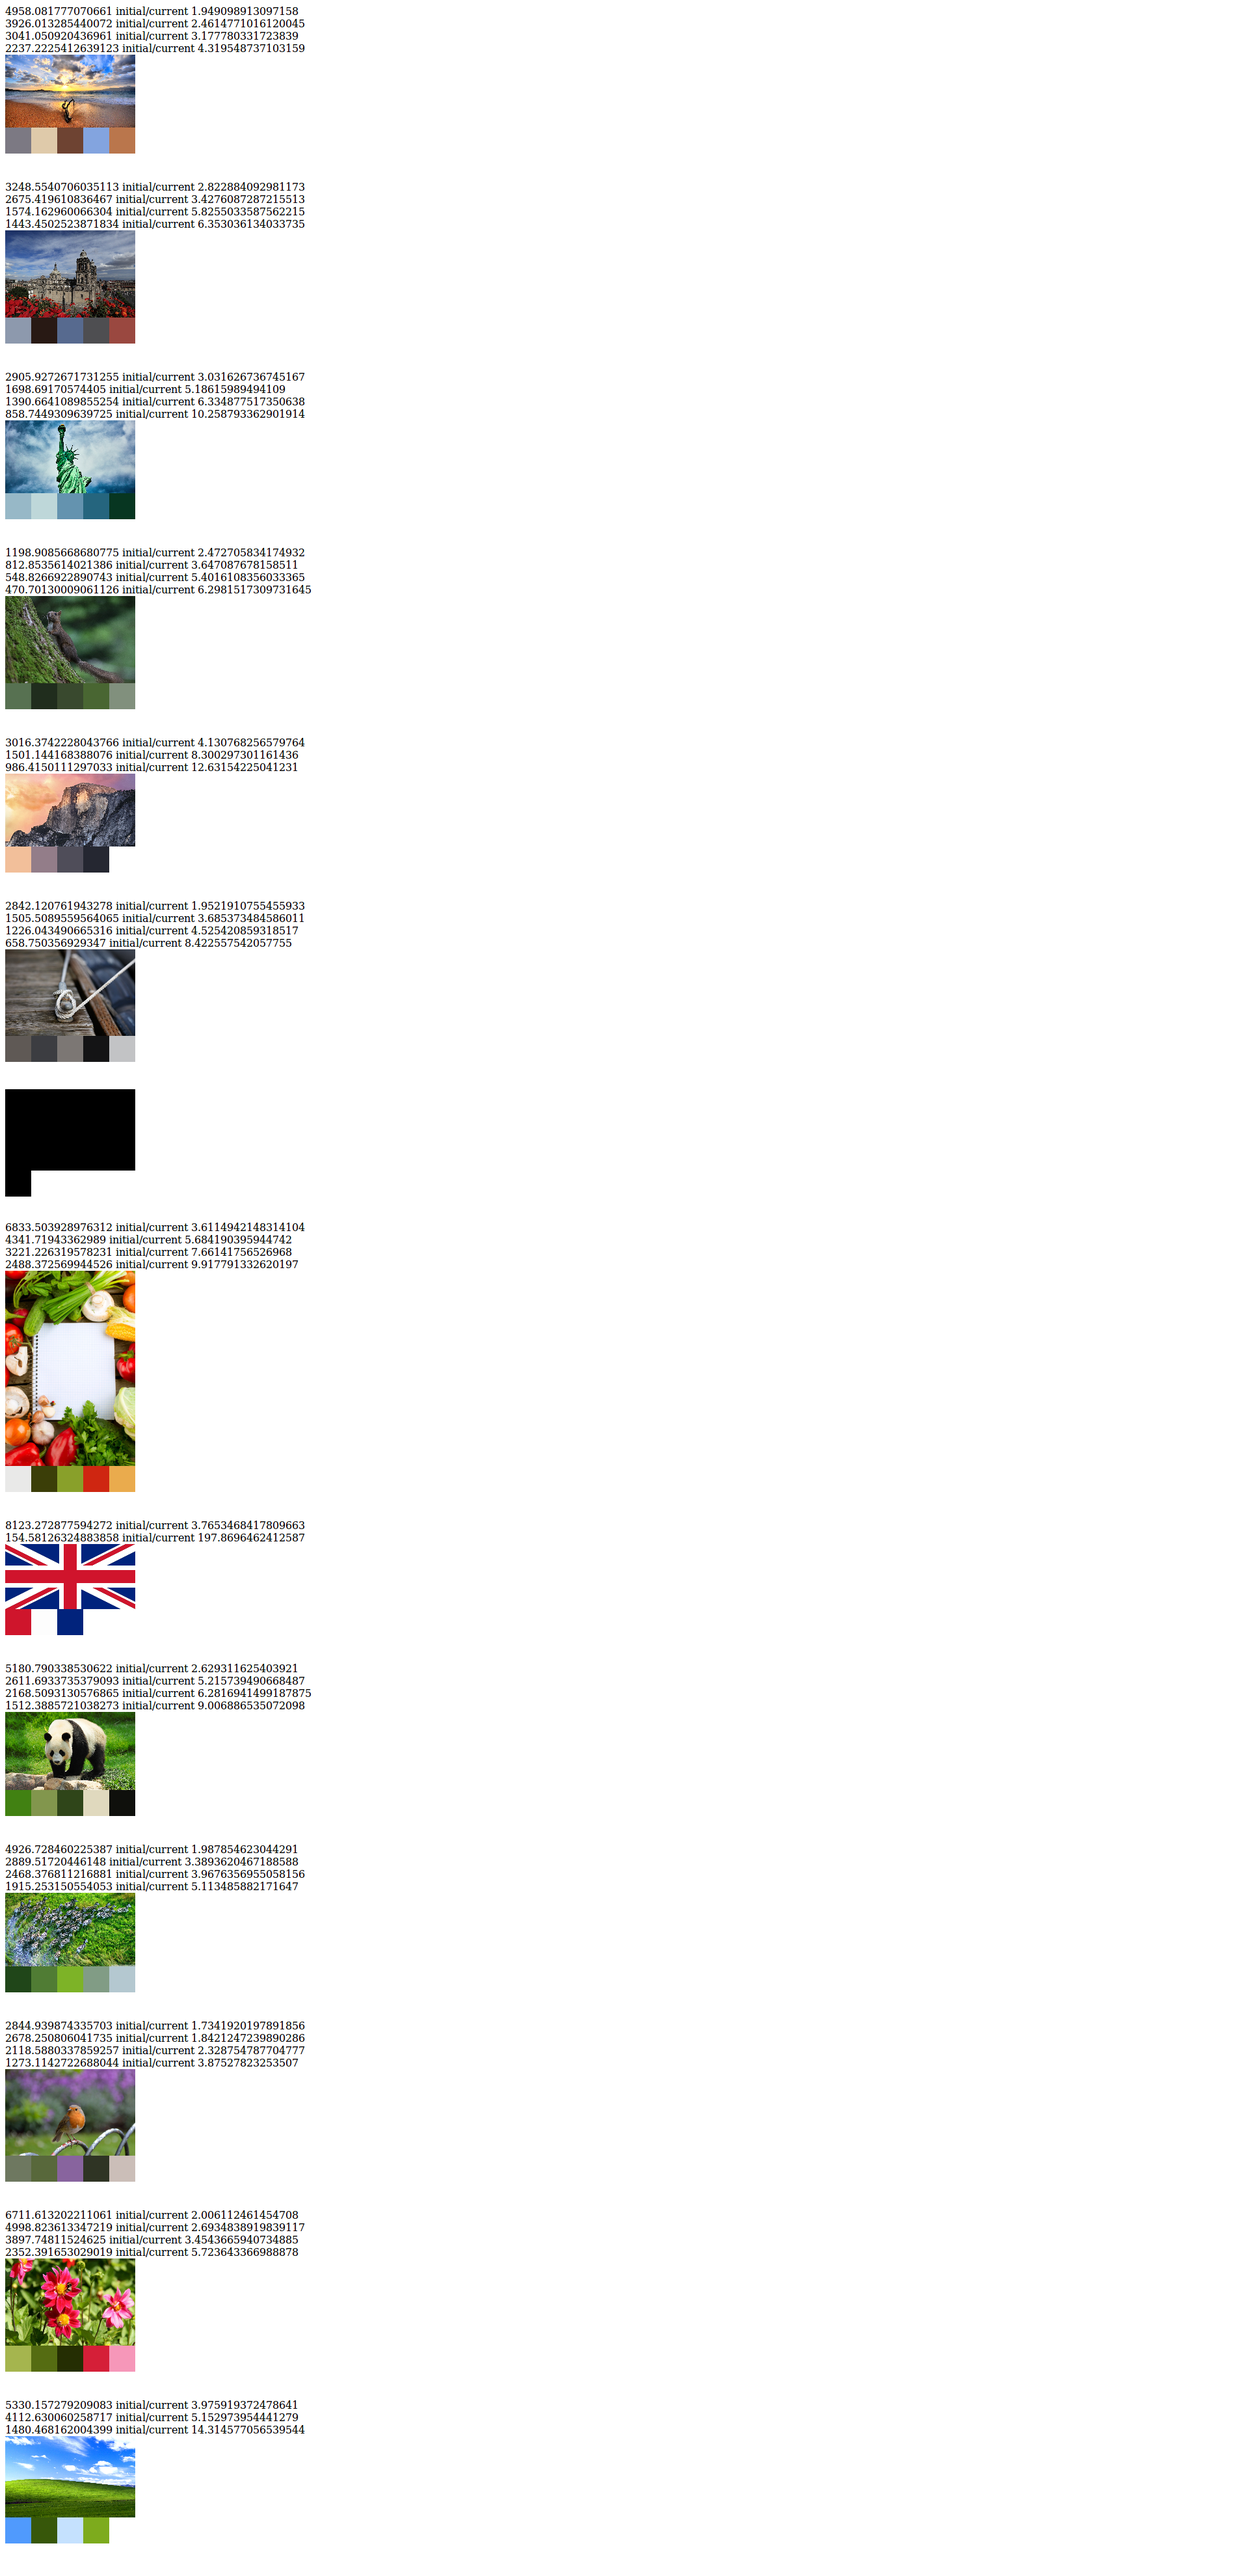
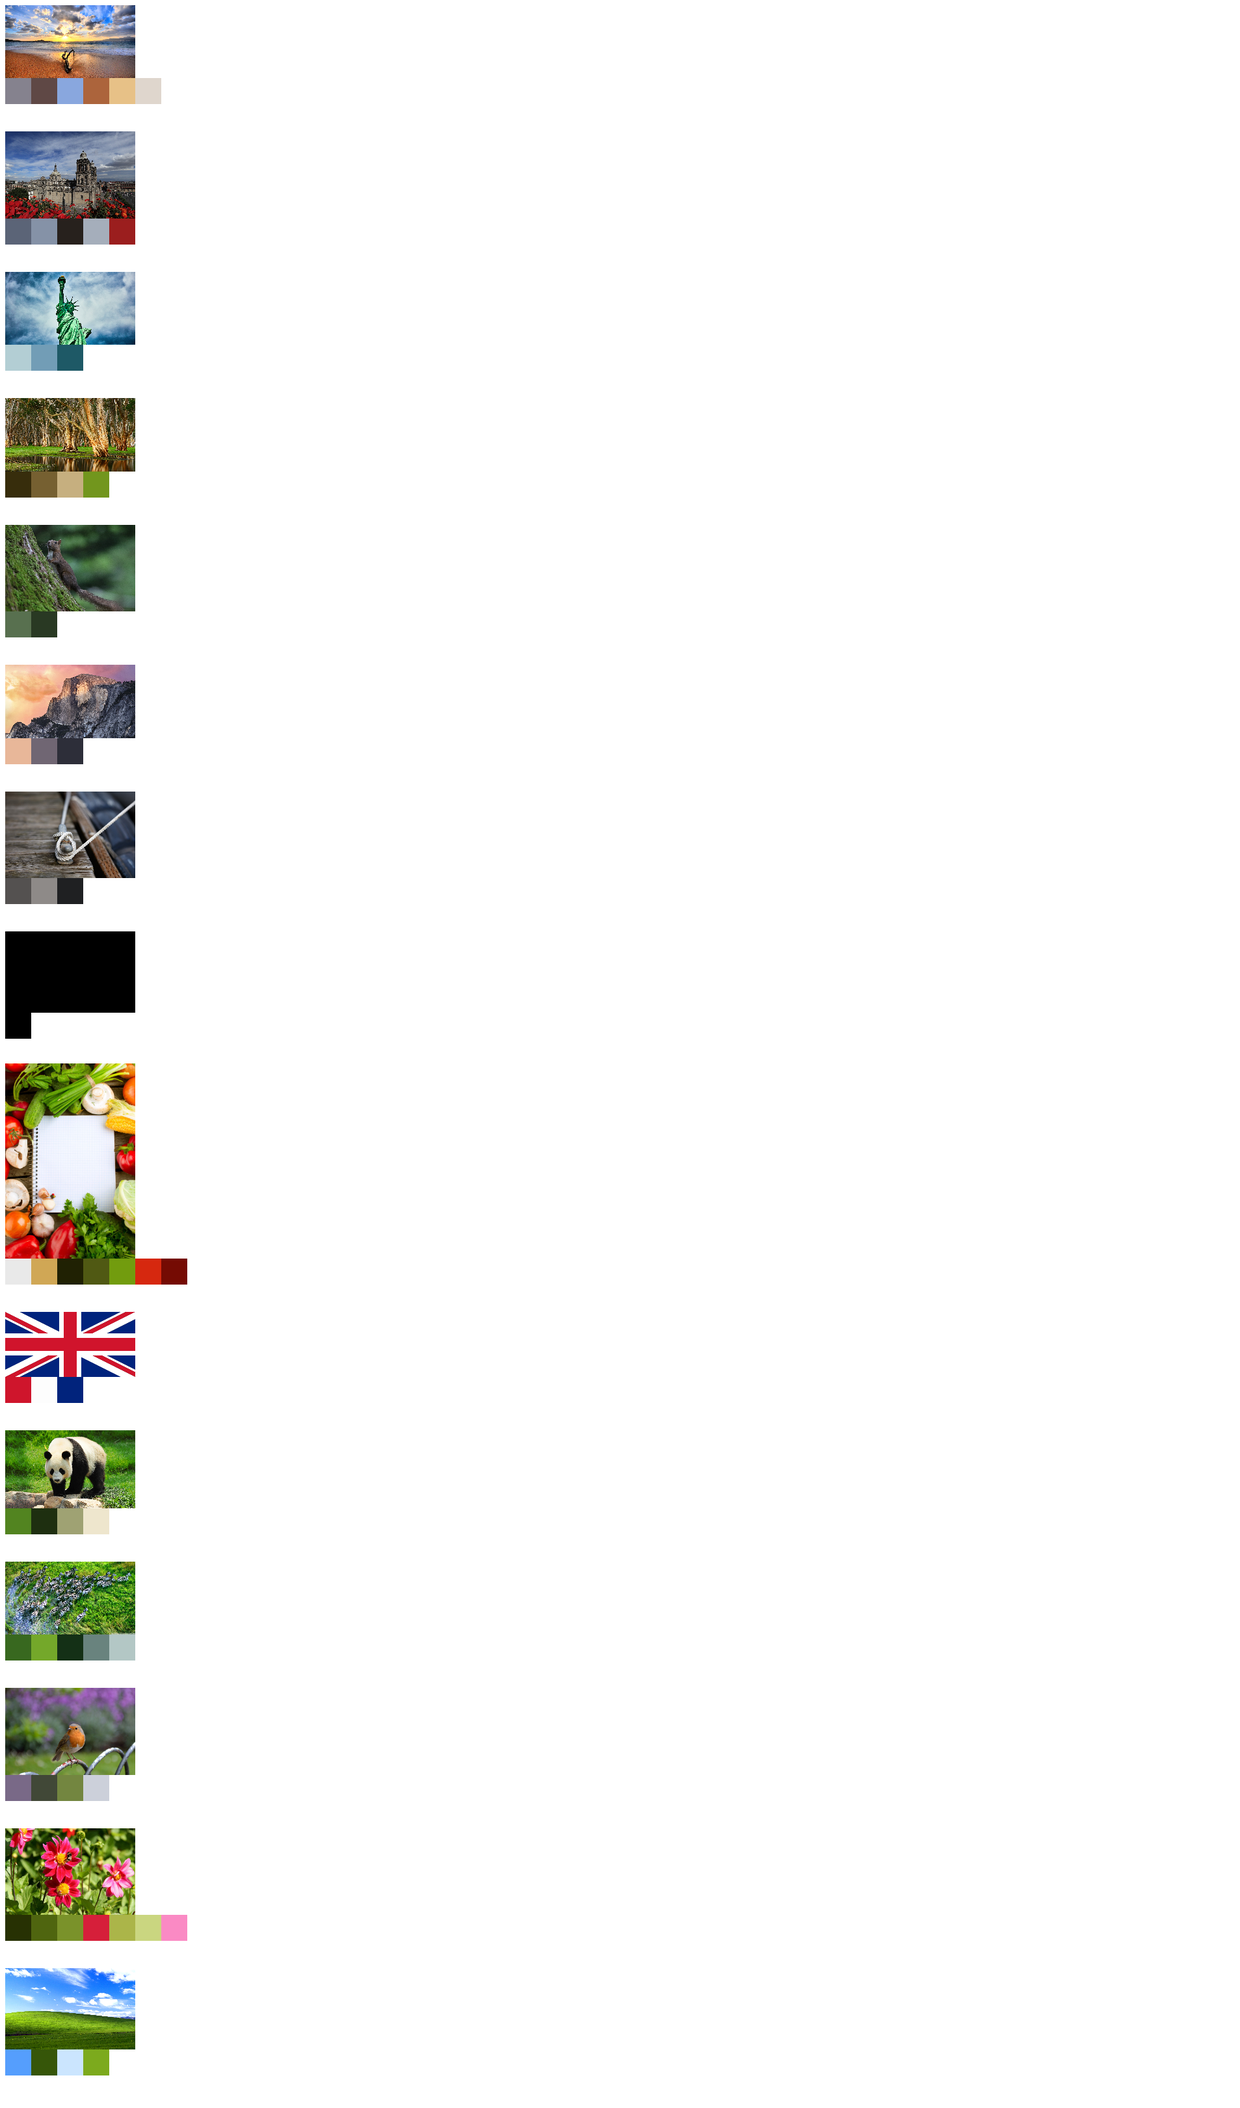
Hiperparameters tuning

Changed region(s): [[0.0, 0.0, 0.2475, 0.9972]]

diff --git a/test.html b/test.html
@@ -1,53 +1,54 @@
 <img src="example_images/01540_driftwood_1366x768.jpg" width="200"><br>
-<div style="background-color:rgb(124,121,131);display:inline-block;width:40px;height:40px;margin-right:-5px;"></div>
-<div style="background-color:rgb(223,202,170);display:inline-block;width:40px;height:40px;margin-right:-5px;"></div>
-<div style="background-color:rgb(110,67,50);display:inline-block;width:40px;height:40px;margin-right:-5px;"></div>
-<div style="background-color:rgb(131,164,223);display:inline-block;width:40px;height:40px;margin-right:-5px;"></div>
-<div style="background-color:rgb(186,118,76);display:inline-block;width:40px;height:40px;margin-right:-5px;"></div>
+<div style="background-color:rgb(133,130,142);display:inline-block;width:40px;height:40px;margin-right:-5px;"></div>
+<div style="background-color:rgb(95,72,69);display:inline-block;width:40px;height:40px;margin-right:-5px;"></div>
+<div style="background-color:rgb(137,167,222);display:inline-block;width:40px;height:40px;margin-right:-5px;"></div>
+<div style="background-color:rgb(172,100,60);display:inline-block;width:40px;height:40px;margin-right:-5px;"></div>
+<div style="background-color:rgb(231,193,135);display:inline-block;width:40px;height:40px;margin-right:-5px;"></div>
+<div style="background-color:rgb(223,214,205);display:inline-block;width:40px;height:40px;margin-right:-5px;"></div>
 <br><br><br>
 <img src="example_images/02.jpg" width="200"><br>
-<div style="background-color:rgb(141,153,173);display:inline-block;width:40px;height:40px;margin-right:-5px;"></div>
-<div style="background-color:rgb(40,25,20);display:inline-block;width:40px;height:40px;margin-right:-5px;"></div>
-<div style="background-color:rgb(87,106,143);display:inline-block;width:40px;height:40px;margin-right:-5px;"></div>
-<div style="background-color:rgb(78,78,81);display:inline-block;width:40px;height:40px;margin-right:-5px;"></div>
-<div style="background-color:rgb(154,72,64);display:inline-block;width:40px;height:40px;margin-right:-5px;"></div>
+<div style="background-color:rgb(91,100,119);display:inline-block;width:40px;height:40px;margin-right:-5px;"></div>
+<div style="background-color:rgb(133,146,167);display:inline-block;width:40px;height:40px;margin-right:-5px;"></div>
+<div style="background-color:rgb(39,33,29);display:inline-block;width:40px;height:40px;margin-right:-5px;"></div>
+<div style="background-color:rgb(165,174,187);display:inline-block;width:40px;height:40px;margin-right:-5px;"></div>
+<div style="background-color:rgb(155,30,30);display:inline-block;width:40px;height:40px;margin-right:-5px;"></div>
 <br><br><br>
 <img src="example_images/04103_misslibertyii_1920x1080.jpg" width="200"><br>
-<div style="background-color:rgb(151,184,199);display:inline-block;width:40px;height:40px;margin-right:-5px;"></div>
-<div style="background-color:rgb(190,215,217);display:inline-block;width:40px;height:40px;margin-right:-5px;"></div>
-<div style="background-color:rgb(100,147,175);display:inline-block;width:40px;height:40px;margin-right:-5px;"></div>
-<div style="background-color:rgb(37,101,126);display:inline-block;width:40px;height:40px;margin-right:-5px;"></div>
-<div style="background-color:rgb(7,54,33);display:inline-block;width:40px;height:40px;margin-right:-5px;"></div>
+<div style="background-color:rgb(179,206,212);display:inline-block;width:40px;height:40px;margin-right:-5px;"></div>
+<div style="background-color:rgb(114,157,182);display:inline-block;width:40px;height:40px;margin-right:-5px;"></div>
+<div style="background-color:rgb(30,89,102);display:inline-block;width:40px;height:40px;margin-right:-5px;"></div>
+<br><br><br>
+<img src="example_images/04141_teagrove_1920x1080.jpg" width="200"><br>
+<div style="background-color:rgb(55,45,12);display:inline-block;width:40px;height:40px;margin-right:-5px;"></div>
+<div style="background-color:rgb(118,96,49);display:inline-block;width:40px;height:40px;margin-right:-5px;"></div>
+<div style="background-color:rgb(198,175,127);display:inline-block;width:40px;height:40px;margin-right:-5px;"></div>
+<div style="background-color:rgb(114,150,29);display:inline-block;width:40px;height:40px;margin-right:-5px;"></div>
 <br><br><br>
 <img src="example_images/07.jpg" width="200"><br>
-<div style="background-color:rgb(87,113,81);display:inline-block;width:40px;height:40px;margin-right:-5px;"></div>
-<div style="background-color:rgb(32,45,29);display:inline-block;width:40px;height:40px;margin-right:-5px;"></div>
-<div style="background-color:rgb(57,73,46);display:inline-block;width:40px;height:40px;margin-right:-5px;"></div>
-<div style="background-color:rgb(73,102,50);display:inline-block;width:40px;height:40px;margin-right:-5px;"></div>
-<div style="background-color:rgb(129,144,125);display:inline-block;width:40px;height:40px;margin-right:-5px;"></div>
+<div style="background-color:rgb(88,112,79);display:inline-block;width:40px;height:40px;margin-right:-5px;"></div>
+<div style="background-color:rgb(41,57,35);display:inline-block;width:40px;height:40px;margin-right:-5px;"></div>
 <br><br><br>
 <img src="example_images/14775211410_42b8d244da_o.jpg" width="200"><br>
-<div style="background-color:rgb(242,191,154);display:inline-block;width:40px;height:40px;margin-right:-5px;"></div>
-<div style="background-color:rgb(147,125,137);display:inline-block;width:40px;height:40px;margin-right:-5px;"></div>
-<div style="background-color:rgb(79,77,89);display:inline-block;width:40px;height:40px;margin-right:-5px;"></div>
-<div style="background-color:rgb(37,39,49);display:inline-block;width:40px;height:40px;margin-right:-5px;"></div>
+<div style="background-color:rgb(232,183,153);display:inline-block;width:40px;height:40px;margin-right:-5px;"></div>
+<div style="background-color:rgb(112,102,115);display:inline-block;width:40px;height:40px;margin-right:-5px;"></div>
+<div style="background-color:rgb(45,46,57);display:inline-block;width:40px;height:40px;margin-right:-5px;"></div>
 <br><br><br>
 <img src="example_images/8448152811.jpg" width="200"><br>
-<div style="background-color:rgb(95,89,85);display:inline-block;width:40px;height:40px;margin-right:-5px;"></div>
-<div style="background-color:rgb(60,61,65);display:inline-block;width:40px;height:40px;margin-right:-5px;"></div>
-<div style="background-color:rgb(124,119,116);display:inline-block;width:40px;height:40px;margin-right:-5px;"></div>
-<div style="background-color:rgb(20,20,21);display:inline-block;width:40px;height:40px;margin-right:-5px;"></div>
-<div style="background-color:rgb(194,195,197);display:inline-block;width:40px;height:40px;margin-right:-5px;"></div>
+<div style="background-color:rgb(84,81,80);display:inline-block;width:40px;height:40px;margin-right:-5px;"></div>
+<div style="background-color:rgb(142,138,136);display:inline-block;width:40px;height:40px;margin-right:-5px;"></div>
+<div style="background-color:rgb(31,32,34);display:inline-block;width:40px;height:40px;margin-right:-5px;"></div>
 <br><br><br>
 <img src="example_images/Bez nazwy.jpg" width="200"><br>
 <div style="background-color:rgb(0,0,0);display:inline-block;width:40px;height:40px;margin-right:-5px;"></div>
 <br><br><br>
 <img src="example_images/Fotolia_45549559_320_480.jpg" width="200"><br>
-<div style="background-color:rgb(233,233,232);display:inline-block;width:40px;height:40px;margin-right:-5px;"></div>
-<div style="background-color:rgb(59,62,8);display:inline-block;width:40px;height:40px;margin-right:-5px;"></div>
-<div style="background-color:rgb(137,160,42);display:inline-block;width:40px;height:40px;margin-right:-5px;"></div>
-<div style="background-color:rgb(207,38,17);display:inline-block;width:40px;height:40px;margin-right:-5px;"></div>
-<div style="background-color:rgb(234,171,77);display:inline-block;width:40px;height:40px;margin-right:-5px;"></div>
+<div style="background-color:rgb(233,233,233);display:inline-block;width:40px;height:40px;margin-right:-5px;"></div>
+<div style="background-color:rgb(208,167,85);display:inline-block;width:40px;height:40px;margin-right:-5px;"></div>
+<div style="background-color:rgb(32,33,3);display:inline-block;width:40px;height:40px;margin-right:-5px;"></div>
+<div style="background-color:rgb(80,89,19);display:inline-block;width:40px;height:40px;margin-right:-5px;"></div>
+<div style="background-color:rgb(114,156,14);display:inline-block;width:40px;height:40px;margin-right:-5px;"></div>
+<div style="background-color:rgb(214,40,15);display:inline-block;width:40px;height:40px;margin-right:-5px;"></div>
+<div style="background-color:rgb(117,11,3);display:inline-block;width:40px;height:40px;margin-right:-5px;"></div>
 <br><br><br>
 <img src="example_images/british-flag-medium.jpg" width="200"><br>
 <div style="background-color:rgb(207,21,44);display:inline-block;width:40px;height:40px;margin-right:-5px;"></div>
@@ -55,36 +56,36 @@
 <div style="background-color:rgb(1,35,124);display:inline-block;width:40px;height:40px;margin-right:-5px;"></div>
 <br><br><br>
 <img src="example_images/giant-panda-shutterstock_86500690.jpg" width="200"><br>
-<div style="background-color:rgb(65,129,18);display:inline-block;width:40px;height:40px;margin-right:-5px;"></div>
-<div style="background-color:rgb(130,150,77);display:inline-block;width:40px;height:40px;margin-right:-5px;"></div>
-<div style="background-color:rgb(47,69,25);display:inline-block;width:40px;height:40px;margin-right:-5px;"></div>
-<div style="background-color:rgb(224,217,190);display:inline-block;width:40px;height:40px;margin-right:-5px;"></div>
-<div style="background-color:rgb(15,16,12);display:inline-block;width:40px;height:40px;margin-right:-5px;"></div>
+<div style="background-color:rgb(82,132,32);display:inline-block;width:40px;height:40px;margin-right:-5px;"></div>
+<div style="background-color:rgb(30,47,16);display:inline-block;width:40px;height:40px;margin-right:-5px;"></div>
+<div style="background-color:rgb(159,162,115);display:inline-block;width:40px;height:40px;margin-right:-5px;"></div>
+<div style="background-color:rgb(238,230,205);display:inline-block;width:40px;height:40px;margin-right:-5px;"></div>
 <br><br><br>
 <img src="example_images/mac_os_x_retina_zebras-wallpaper-1920x1080.jpg" width="200"><br>
-<div style="background-color:rgb(32,70,25);display:inline-block;width:40px;height:40px;margin-right:-5px;"></div>
-<div style="background-color:rgb(80,124,52);display:inline-block;width:40px;height:40px;margin-right:-5px;"></div>
-<div style="background-color:rgb(125,179,39);display:inline-block;width:40px;height:40px;margin-right:-5px;"></div>
-<div style="background-color:rgb(129,156,133);display:inline-block;width:40px;height:40px;margin-right:-5px;"></div>
-<div style="background-color:rgb(180,200,208);display:inline-block;width:40px;height:40px;margin-right:-5px;"></div>
+<div style="background-color:rgb(56,104,31);display:inline-block;width:40px;height:40px;margin-right:-5px;"></div>
+<div style="background-color:rgb(116,168,42);display:inline-block;width:40px;height:40px;margin-right:-5px;"></div>
+<div style="background-color:rgb(20,48,22);display:inline-block;width:40px;height:40px;margin-right:-5px;"></div>
+<div style="background-color:rgb(105,131,126);display:inline-block;width:40px;height:40px;margin-right:-5px;"></div>
+<div style="background-color:rgb(179,199,197);display:inline-block;width:40px;height:40px;margin-right:-5px;"></div>
 <br><br><br>
 <img src="example_images/sample1_l.jpg" width="200"><br>
-<div style="background-color:rgb(110,120,96);display:inline-block;width:40px;height:40px;margin-right:-5px;"></div>
-<div style="background-color:rgb(88,104,59);display:inline-block;width:40px;height:40px;margin-right:-5px;"></div>
-<div style="background-color:rgb(136,100,158);display:inline-block;width:40px;height:40px;margin-right:-5px;"></div>
-<div style="background-color:rgb(47,52,36);display:inline-block;width:40px;height:40px;margin-right:-5px;"></div>
-<div style="background-color:rgb(203,190,184);display:inline-block;width:40px;height:40px;margin-right:-5px;"></div>
+<div style="background-color:rgb(121,105,135);display:inline-block;width:40px;height:40px;margin-right:-5px;"></div>
+<div style="background-color:rgb(65,72,55);display:inline-block;width:40px;height:40px;margin-right:-5px;"></div>
+<div style="background-color:rgb(115,134,64);display:inline-block;width:40px;height:40px;margin-right:-5px;"></div>
+<div style="background-color:rgb(204,208,218);display:inline-block;width:40px;height:40px;margin-right:-5px;"></div>
 <br><br><br>
 <img src="example_images/sample_0.jpg" width="200"><br>
-<div style="background-color:rgb(165,181,78);display:inline-block;width:40px;height:40px;margin-right:-5px;"></div>
-<div style="background-color:rgb(85,108,18);display:inline-block;width:40px;height:40px;margin-right:-5px;"></div>
-<div style="background-color:rgb(37,46,3);display:inline-block;width:40px;height:40px;margin-right:-5px;"></div>
-<div style="background-color:rgb(213,31,56);display:inline-block;width:40px;height:40px;margin-right:-5px;"></div>
-<div style="background-color:rgb(246,151,185);display:inline-block;width:40px;height:40px;margin-right:-5px;"></div>
+<div style="background-color:rgb(39,49,3);display:inline-block;width:40px;height:40px;margin-right:-5px;"></div>
+<div style="background-color:rgb(79,101,15);display:inline-block;width:40px;height:40px;margin-right:-5px;"></div>
+<div style="background-color:rgb(122,146,42);display:inline-block;width:40px;height:40px;margin-right:-5px;"></div>
+<div style="background-color:rgb(214,31,58);display:inline-block;width:40px;height:40px;margin-right:-5px;"></div>
+<div style="background-color:rgb(171,181,73);display:inline-block;width:40px;height:40px;margin-right:-5px;"></div>
+<div style="background-color:rgb(202,214,128);display:inline-block;width:40px;height:40px;margin-right:-5px;"></div>
+<div style="background-color:rgb(250,138,196);display:inline-block;width:40px;height:40px;margin-right:-5px;"></div>
 <br><br><br>
 <img src="example_images/windows_xp_bliss-wide.jpg" width="200"><br>
-<div style="background-color:rgb(80,154,253);display:inline-block;width:40px;height:40px;margin-right:-5px;"></div>
-<div style="background-color:rgb(55,87,10);display:inline-block;width:40px;height:40px;margin-right:-5px;"></div>
-<div style="background-color:rgb(197,225,254);display:inline-block;width:40px;height:40px;margin-right:-5px;"></div>
-<div style="background-color:rgb(125,171,29);display:inline-block;width:40px;height:40px;margin-right:-5px;"></div>
+<div style="background-color:rgb(85,158,253);display:inline-block;width:40px;height:40px;margin-right:-5px;"></div>
+<div style="background-color:rgb(54,86,9);display:inline-block;width:40px;height:40px;margin-right:-5px;"></div>
+<div style="background-color:rgb(203,229,254);display:inline-block;width:40px;height:40px;margin-right:-5px;"></div>
+<div style="background-color:rgb(124,170,29);display:inline-block;width:40px;height:40px;margin-right:-5px;"></div>
 <br><br><br>

diff --git a/main.go b/main.go
@@ -42,22 +42,14 @@ func printColor(c color.Color) {
 
 // https://en.wikipedia.org/wiki/Elbow_method_(clustering)
 func extractColors(image image.Image) []color.Color {
-	colors, initialSSE := extractColorsWithCount(image, 1)
-
-	if initialSSE == 0 {
-		return colors
-	}
-
-	var SSE float64
-	for i := 2; i <= 5; i++ {
-		colors, SSE = extractColorsWithCount(image, i)
-		if initialSSE/SSE > 10 {
-			break
+	for i := 1; true; i++ {
+		colors, SSE := extractColorsWithCount(image, i)
+		if SSE < 2000 || i >= 7 {
+			return colors
 		}
-
 	}
 
-	return colors
+	return nil
 }
 
 // https://en.wikipedia.org/wiki/K-means_clustering
